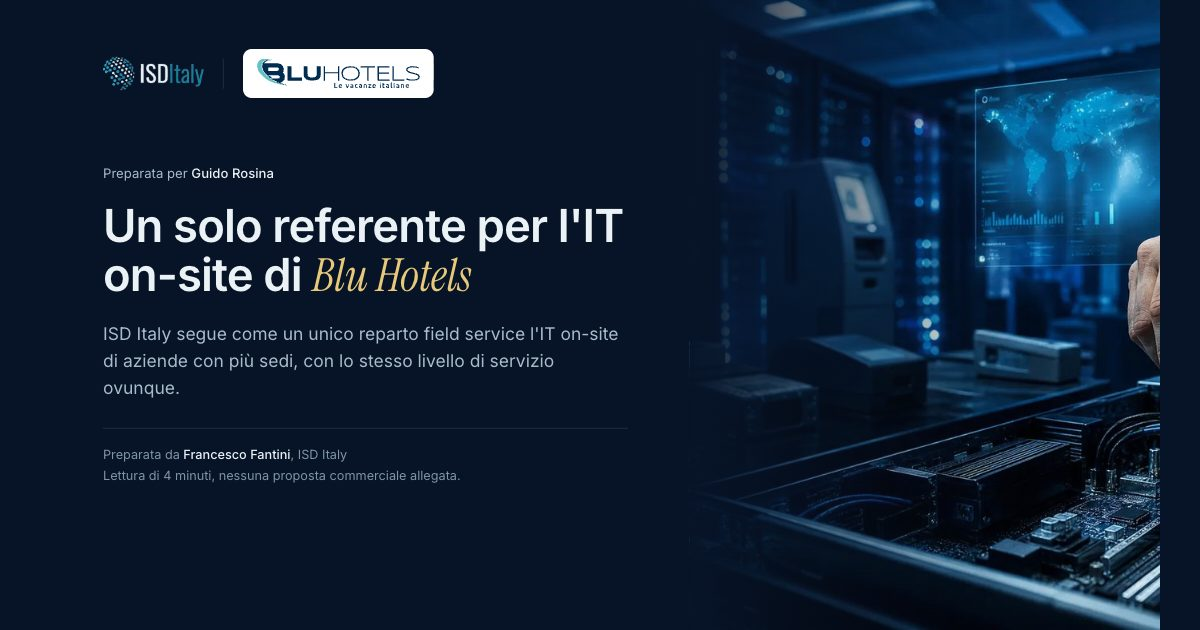
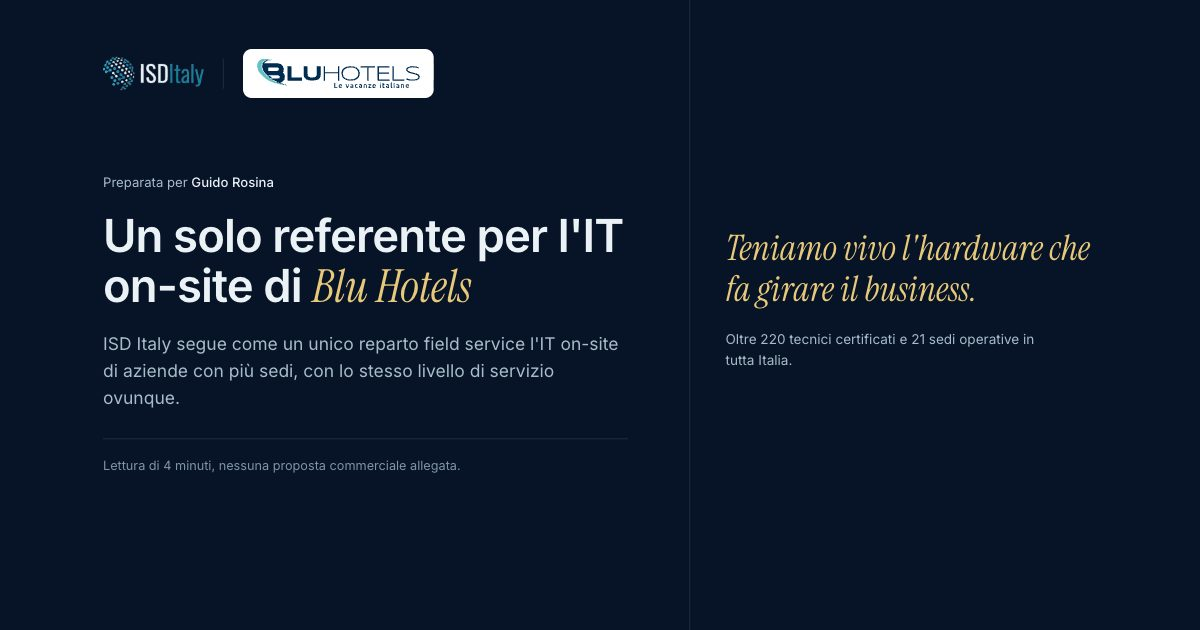
isd v2: no site screenshot, no source line, no AI-looking images, no sender line

diff --git a/isd/blu-hotels-v2/index.html b/isd/blu-hotels-v2/index.html
@@ -42,8 +42,9 @@ p{line-height:1.55}
 .cover .sub{font-size:20px;color:var(--dim);margin-top:22px;max-width:600px}
 .cover .meta{margin-top:30px;font-size:14.5px;color:var(--faint);line-height:1.6;border-top:1px solid var(--line);padding-top:18px;max-width:600px}
 .cover .meta b{color:var(--paper);font-weight:500}
-.cover .r{flex:1;position:relative;background:var(--ink2) url(../assets/isd-tecnico.jpg) 38% 50%/cover no-repeat}
-.cover .r:before{content:"";position:absolute;inset:0;background:linear-gradient(90deg,var(--ink) 0%,rgba(7,20,40,.55) 28%,rgba(7,20,40,.05) 70%)}
+.cover .r{flex:1;display:flex;flex-direction:column;justify-content:center;padding:56px 72px 92px 40px;border-left:1px solid var(--line)}
+.cover .r p{font-family:"Instrument Serif",Georgia,serif;font-style:italic;font-size:40px;line-height:1.18;color:var(--goldl)}
+.cover .r span{display:block;margin-top:22px;font-size:15.5px;line-height:1.55;color:var(--dim);max-width:380px}
 .saw{padding:0;flex-direction:row}
 .saw .l{flex:0 0 50%;padding:56px 40px 88px 72px;display:flex;flex-direction:column;justify-content:center;min-width:0}
 .saw .fact{font-size:21px;line-height:1.5;margin-top:24px;color:var(--paper)}
@@ -51,20 +52,21 @@ p{line-height:1.55}
 .saw .idea{margin-top:26px;font-family:"Instrument Serif",Georgia,serif;font-style:italic;font-size:25px;line-height:1.3;color:var(--goldl)}
 .saw .src{margin-top:16px;font-family:"IBM Plex Mono",monospace;font-size:12px;color:var(--faint)}
 .saw .r{flex:1;display:flex;align-items:center;justify-content:center;padding:56px 64px 88px 24px;min-width:0}
+.biglogo{width:100%;max-width:440px;aspect-ratio:4/3;background:#fff;border-radius:16px;display:flex;align-items:center;justify-content:center;padding:40px}
+.biglogo img{display:block;max-width:100%;max-height:120px;width:auto;height:auto}
+.biglogo .pname{color:var(--ink);font-size:34px;text-align:center}
 .bro{width:100%;border-radius:12px;overflow:hidden;background:#fff;box-shadow:0 30px 70px rgba(0,0,0,.45),0 0 0 1px rgba(255,255,255,.06)}
 .bro .bar{height:30px;background:#e9edf1;display:flex;align-items:center;gap:7px;padding:0 12px}
 .bro .bar i{width:10px;height:10px;border-radius:50%;background:#c8d0d8}
 .bro .bar span{margin-left:10px;font-family:"IBM Plex Mono",monospace;font-size:11.5px;color:#5b6b78}
 .bro img{display:block;width:100%;height:auto}
 .help{padding:0;flex-direction:row}
-.help .l{flex:0 0 38%;position:relative;background:var(--ink2) url(../assets/isd-servicedesk.jpg) 55% 50%/cover no-repeat}
-.help .l:after{content:"";position:absolute;inset:0;background:linear-gradient(270deg,var(--ink) 0%,rgba(7,20,40,.2) 45%,rgba(7,20,40,0) 100%)}
-.help .r{flex:1;padding:56px 72px 88px 48px;display:flex;flex-direction:column;justify-content:center;min-width:0}
-.pil{margin-top:26px;display:grid;grid-template-columns:1fr 1fr;gap:0 44px}
+.help .r{flex:1;padding:56px 72px 88px 72px;display:flex;flex-direction:column;justify-content:center;min-width:0}
+.pil{margin-top:34px;display:grid;grid-template-columns:repeat(4,1fr);gap:0 36px}
 .pil div{padding:18px 0;border-top:1px solid var(--line)}
-.pil b{display:block;font-size:19px;font-weight:600;color:var(--paper)}
-.pil span{display:block;font-size:15.5px;line-height:1.5;color:var(--dim);margin-top:6px}
-.help .note{margin-top:24px;font-size:16px;color:var(--dim)}
+.pil div{padding:22px 0}.pil b{display:block;font-size:21px;font-weight:600;color:var(--paper)}
+.pil span{display:block;font-size:16.5px;line-height:1.5;color:var(--dim);margin-top:6px}
+.help .note{margin-top:34px;font-size:18px;color:var(--dim)}
 .help .note b{color:var(--cyan);font-weight:500}
 .case{justify-content:center}
 .case h2{max-width:900px}
@@ -101,15 +103,14 @@ html.phone .pc{font-size:14px;color:var(--faint)}html.phone .pc b{color:var(--pa
 html.phone h1{font-size:30px}html.phone h2{font-size:25px}
 html.phone .cover,html.phone .saw,html.phone .help,html.phone .talk{flex-direction:column}
 html.phone .cover .l{flex:1;padding:22px 20px 14px;min-height:0}
-html.phone .cover .r{flex:0 0 30%}
-html.phone .cover .r:before{background:linear-gradient(180deg,var(--ink) 0%,rgba(7,20,40,.1) 55%)}
+html.phone .cover .r{flex:0 0 auto;border-left:0;border-top:1px solid var(--line);padding:14px 20px 16px}html.phone .cover .r p{font-size:21px}html.phone .cover .r span{font-size:12.5px;margin-top:8px}
 html.phone .cover h1{margin-top:16px}html.phone .cover .sub{font-size:15px;margin-top:12px}
 html.phone .cover .meta{font-size:12.5px;margin-top:14px;padding-top:10px}
 html.phone .logos{gap:12px}html.phone .logos .isd{height:26px}html.phone .logos i{height:24px}html.phone .plogo{height:40px;padding:7px 10px}html.phone .plogo img{max-height:24px;max-width:130px}html.phone .pname{font-size:16px}
 html.phone .saw .l{flex:0 0 auto;padding:22px 20px 8px}html.phone .saw .fact{font-size:15px;margin-top:12px}html.phone .saw .ctx{font-size:13.5px;margin-top:8px}html.phone .saw .idea{font-size:18px;margin-top:10px}html.phone .saw .src{display:none}
-html.phone .saw .r{flex:1;padding:6px 20px 14px;min-height:0;align-items:flex-start}html.phone .bro .bar{height:22px}html.phone .bro .bar span{font-size:10px}
-html.phone .help .l{flex:0 0 22%}html.phone .help .l:after{background:linear-gradient(0deg,var(--ink) 0%,rgba(7,20,40,0) 70%)}
-html.phone .help .r{flex:1;padding:12px 20px 14px;justify-content:flex-start;min-height:0}html.phone .pil{grid-template-columns:1fr;margin-top:8px}html.phone .pil div{padding:8px 0}html.phone .pil b{font-size:15px}html.phone .pil span{font-size:12.6px;margin-top:2px;line-height:1.38}html.phone .help .note{font-size:12.6px;margin-top:8px}
+html.phone .saw .r{flex:1;padding:6px 20px 14px;min-height:0;align-items:flex-start}html.phone .biglogo{max-width:none;aspect-ratio:auto;height:100%;max-height:220px;padding:24px}html.phone .biglogo img{max-height:70px}html.phone .bro .bar{height:22px}html.phone .bro .bar span{font-size:10px}
+
+html.phone .help .r{flex:1;padding:22px 20px 14px;justify-content:flex-start;min-height:0}html.phone .pil{grid-template-columns:1fr;margin-top:10px}html.phone .pil div{padding:9px 0}html.phone .pil b{font-size:15px}html.phone .pil span{font-size:12.6px;margin-top:2px;line-height:1.38}html.phone .help .note{font-size:12.6px;margin-top:8px}
 html.phone .case .q{grid-template-columns:1fr;gap:14px;margin-top:18px}html.phone .case .big{font-size:48px}html.phone .case .big small{font-size:12.5px;margin-top:6px}html.phone .case .txt{font-size:15px}html.phone .case ul{margin-top:18px;gap:6px}html.phone .case li{font-size:12px;padding:5px 10px}
 html.phone .talk .l{flex:0 0 auto;padding:22px 20px 10px}html.phone .talk .alt{font-size:14.5px;margin-top:10px}html.phone .talk .site{display:none}
 html.phone .talk .r{flex:1;padding:6px 20px 14px;min-height:0;align-items:stretch;flex-direction:column}html.phone .cta{padding:22px 20px}html.phone .cta b{font-size:20px}html.phone .cta span{font-size:14px}html.phone .cta .btn{margin-top:14px}
@@ -127,10 +128,10 @@ html.phone .talk .r{flex:1;padding:6px 20px 14px;min-height:0;align-items:stretc
       <p class="kick">Preparata per <b>Guido Rosina</b></p>
       <h1>Un solo referente per l'IT on-site di <em>Blu Hotels</em></h1>
       <p class="sub">ISD Italy segue come un unico reparto field service l'IT on-site di aziende con più sedi, con lo stesso livello di servizio ovunque.</p>
-      <p class="meta">Preparata da <b>Francesco Fantini</b>, ISD Italy<br>Lettura di 4 minuti, nessuna proposta commerciale allegata.</p>
+      <p class="meta">Lettura di 4 minuti, nessuna proposta commerciale allegata.</p>
     </div>
   </div>
-  <div class="r" role="img" aria-label="Un tecnico ISD Italy al lavoro su un apparato"></div>
+  <div class="r"><p>Teniamo vivo l'hardware che fa girare il business.</p><span>Oltre 220 tecnici certificati e 21 sedi operative in tutta Italia.</span></div>
 </div></section>
 
 <section data-i="2" aria-label="Cosa abbiamo visto in Blu Hotels"><div class="s saw">
@@ -139,13 +140,11 @@ html.phone .talk .r{flex:1;padding:6px 20px 14px;min-height:0;align-items:stretc
     <p class="fact">Blu Hotels è da oltre trent'anni tra i protagonisti dell'ospitalità italiana, con oltre 30 hotel 4 e 4 stelle superior nelle destinazioni più rinomate d'Italia.</p>
     <p class="ctx">Con più sedi sul territorio, di solito l'assistenza IT passa da più manutentori locali, con standard e tempi diversi, e ogni intervento va coordinato a parte.</p>
     <p class="idea">Un unico reparto field service nazionale certificato, al posto di tanti manutentori locali.</p>
-    <p class="src">fonte bluhotels.it</p>
   </div>
-  <div class="r"><div class="bro"><div class="bar"><i></i><i></i><i></i><span>bluhotels.it</span></div><img src="../assets/leads/blu-hotels/site.jpg" alt="Il sito di Blu Hotels"></div></div>
+  <div class="r"><div class="biglogo"><img src="../assets/leads/blu-hotels/logo.svg" alt="Blu Hotels"></div></div>
 </div></section>
 
 <section data-i="3" aria-label="Come potremmo aiutare"><div class="s help">
-  <div class="l" role="img" aria-label="Il service desk di ISD Italy"></div>
   <div class="r">
     <h2>Come potremmo <em>aiutare</em></h2>
     <div class="pil">
@@ -154,7 +153,7 @@ html.phone .talk .r{flex:1;padding:6px 20px 14px;min-height:0;align-items:stretc
       <div><b>Il ciclo di vita</b><span>Staging, installazione, ricambi, refresh e dismissione certificata.</span></div>
       <div><b>La presenza</b><span>Tecnici ISD Italy nella vostra struttura, ogni giorno.</span></div>
     </div>
-    <p class="note">Oltre 220 tecnici certificati e 21 sedi, con <b>un solo referente</b> e lo stesso livello di servizio su tutte le sedi.</p>
+    <p class="note">Su ATM, POS, server, reti e postazioni di qualunque produttore, con <b>un solo referente</b> e lo stesso livello di servizio su tutte le sedi.</p>
   </div>
 </div></section>
 

diff --git a/isd/_src/template_v2.html b/isd/_src/template_v2.html
@@ -42,8 +42,9 @@ p{line-height:1.55}
 .cover .sub{font-size:20px;color:var(--dim);margin-top:22px;max-width:600px}
 .cover .meta{margin-top:30px;font-size:14.5px;color:var(--faint);line-height:1.6;border-top:1px solid var(--line);padding-top:18px;max-width:600px}
 .cover .meta b{color:var(--paper);font-weight:500}
-.cover .r{flex:1;position:relative;background:var(--ink2) url(../assets/isd-tecnico.jpg) 38% 50%/cover no-repeat}
-.cover .r:before{content:"";position:absolute;inset:0;background:linear-gradient(90deg,var(--ink) 0%,rgba(7,20,40,.55) 28%,rgba(7,20,40,.05) 70%)}
+.cover .r{flex:1;display:flex;flex-direction:column;justify-content:center;padding:56px 72px 92px 40px;border-left:1px solid var(--line)}
+.cover .r p{font-family:"Instrument Serif",Georgia,serif;font-style:italic;font-size:40px;line-height:1.18;color:var(--goldl)}
+.cover .r span{display:block;margin-top:22px;font-size:15.5px;line-height:1.55;color:var(--dim);max-width:380px}
 .saw{padding:0;flex-direction:row}
 .saw .l{flex:0 0 50%;padding:56px 40px 88px 72px;display:flex;flex-direction:column;justify-content:center;min-width:0}
 .saw .fact{font-size:21px;line-height:1.5;margin-top:24px;color:var(--paper)}
@@ -51,20 +52,21 @@ p{line-height:1.55}
 .saw .idea{margin-top:26px;font-family:"Instrument Serif",Georgia,serif;font-style:italic;font-size:25px;line-height:1.3;color:var(--goldl)}
 .saw .src{margin-top:16px;font-family:"IBM Plex Mono",monospace;font-size:12px;color:var(--faint)}
 .saw .r{flex:1;display:flex;align-items:center;justify-content:center;padding:56px 64px 88px 24px;min-width:0}
+.biglogo{width:100%;max-width:440px;aspect-ratio:4/3;background:#fff;border-radius:16px;display:flex;align-items:center;justify-content:center;padding:40px}
+.biglogo img{display:block;max-width:100%;max-height:120px;width:auto;height:auto}
+.biglogo .pname{color:var(--ink);font-size:34px;text-align:center}
 .bro{width:100%;border-radius:12px;overflow:hidden;background:#fff;box-shadow:0 30px 70px rgba(0,0,0,.45),0 0 0 1px rgba(255,255,255,.06)}
 .bro .bar{height:30px;background:#e9edf1;display:flex;align-items:center;gap:7px;padding:0 12px}
 .bro .bar i{width:10px;height:10px;border-radius:50%;background:#c8d0d8}
 .bro .bar span{margin-left:10px;font-family:"IBM Plex Mono",monospace;font-size:11.5px;color:#5b6b78}
 .bro img{display:block;width:100%;height:auto}
 .help{padding:0;flex-direction:row}
-.help .l{flex:0 0 38%;position:relative;background:var(--ink2) url(../assets/isd-servicedesk.jpg) 55% 50%/cover no-repeat}
-.help .l:after{content:"";position:absolute;inset:0;background:linear-gradient(270deg,var(--ink) 0%,rgba(7,20,40,.2) 45%,rgba(7,20,40,0) 100%)}
-.help .r{flex:1;padding:56px 72px 88px 48px;display:flex;flex-direction:column;justify-content:center;min-width:0}
-.pil{margin-top:26px;display:grid;grid-template-columns:1fr 1fr;gap:0 44px}
+.help .r{flex:1;padding:56px 72px 88px 72px;display:flex;flex-direction:column;justify-content:center;min-width:0}
+.pil{margin-top:34px;display:grid;grid-template-columns:repeat(4,1fr);gap:0 36px}
 .pil div{padding:18px 0;border-top:1px solid var(--line)}
-.pil b{display:block;font-size:19px;font-weight:600;color:var(--paper)}
-.pil span{display:block;font-size:15.5px;line-height:1.5;color:var(--dim);margin-top:6px}
-.help .note{margin-top:24px;font-size:16px;color:var(--dim)}
+.pil div{padding:22px 0}.pil b{display:block;font-size:21px;font-weight:600;color:var(--paper)}
+.pil span{display:block;font-size:16.5px;line-height:1.5;color:var(--dim);margin-top:6px}
+.help .note{margin-top:34px;font-size:18px;color:var(--dim)}
 .help .note b{color:var(--cyan);font-weight:500}
 .case{justify-content:center}
 .case h2{max-width:900px}
@@ -101,15 +103,14 @@ html.phone .pc{font-size:14px;color:var(--faint)}html.phone .pc b{color:var(--pa
 html.phone h1{font-size:30px}html.phone h2{font-size:25px}
 html.phone .cover,html.phone .saw,html.phone .help,html.phone .talk{flex-direction:column}
 html.phone .cover .l{flex:1;padding:22px 20px 14px;min-height:0}
-html.phone .cover .r{flex:0 0 30%}
-html.phone .cover .r:before{background:linear-gradient(180deg,var(--ink) 0%,rgba(7,20,40,.1) 55%)}
+html.phone .cover .r{flex:0 0 auto;border-left:0;border-top:1px solid var(--line);padding:14px 20px 16px}html.phone .cover .r p{font-size:21px}html.phone .cover .r span{font-size:12.5px;margin-top:8px}
 html.phone .cover h1{margin-top:16px}html.phone .cover .sub{font-size:15px;margin-top:12px}
 html.phone .cover .meta{font-size:12.5px;margin-top:14px;padding-top:10px}
 html.phone .logos{gap:12px}html.phone .logos .isd{height:26px}html.phone .logos i{height:24px}html.phone .plogo{height:40px;padding:7px 10px}html.phone .plogo img{max-height:24px;max-width:130px}html.phone .pname{font-size:16px}
 html.phone .saw .l{flex:0 0 auto;padding:22px 20px 8px}html.phone .saw .fact{font-size:15px;margin-top:12px}html.phone .saw .ctx{font-size:13.5px;margin-top:8px}html.phone .saw .idea{font-size:18px;margin-top:10px}html.phone .saw .src{display:none}
-html.phone .saw .r{flex:1;padding:6px 20px 14px;min-height:0;align-items:flex-start}html.phone .bro .bar{height:22px}html.phone .bro .bar span{font-size:10px}
-html.phone .help .l{flex:0 0 22%}html.phone .help .l:after{background:linear-gradient(0deg,var(--ink) 0%,rgba(7,20,40,0) 70%)}
-html.phone .help .r{flex:1;padding:12px 20px 14px;justify-content:flex-start;min-height:0}html.phone .pil{grid-template-columns:1fr;margin-top:8px}html.phone .pil div{padding:8px 0}html.phone .pil b{font-size:15px}html.phone .pil span{font-size:12.6px;margin-top:2px;line-height:1.38}html.phone .help .note{font-size:12.6px;margin-top:8px}
+html.phone .saw .r{flex:1;padding:6px 20px 14px;min-height:0;align-items:flex-start}html.phone .biglogo{max-width:none;aspect-ratio:auto;height:100%;max-height:220px;padding:24px}html.phone .biglogo img{max-height:70px}html.phone .bro .bar{height:22px}html.phone .bro .bar span{font-size:10px}
+
+html.phone .help .r{flex:1;padding:22px 20px 14px;justify-content:flex-start;min-height:0}html.phone .pil{grid-template-columns:1fr;margin-top:10px}html.phone .pil div{padding:9px 0}html.phone .pil b{font-size:15px}html.phone .pil span{font-size:12.6px;margin-top:2px;line-height:1.38}html.phone .help .note{font-size:12.6px;margin-top:8px}
 html.phone .case .q{grid-template-columns:1fr;gap:14px;margin-top:18px}html.phone .case .big{font-size:48px}html.phone .case .big small{font-size:12.5px;margin-top:6px}html.phone .case .txt{font-size:15px}html.phone .case ul{margin-top:18px;gap:6px}html.phone .case li{font-size:12px;padding:5px 10px}
 html.phone .talk .l{flex:0 0 auto;padding:22px 20px 10px}html.phone .talk .alt{font-size:14.5px;margin-top:10px}html.phone .talk .site{display:none}
 html.phone .talk .r{flex:1;padding:6px 20px 14px;min-height:0;align-items:stretch;flex-direction:column}html.phone .cta{padding:22px 20px}html.phone .cta b{font-size:20px}html.phone .cta span{font-size:14px}html.phone .cta .btn{margin-top:14px}
@@ -127,10 +128,10 @@ html.phone .talk .r{flex:1;padding:6px 20px 14px;min-height:0;align-items:stretc
       <p class="kick">Preparata per <b>{{FULLNAME}}</b></p>
       <h1>{{H1}}</h1>
       <p class="sub">{{GEN_SUB}}</p>
-      <p class="meta">Preparata da <b>{{SENDER}}</b>, ISD Italy<br>Lettura di 4 minuti, nessuna proposta commerciale allegata.</p>
+      <p class="meta">Lettura di 4 minuti, nessuna proposta commerciale allegata.</p>
     </div>
   </div>
-  <div class="r" role="img" aria-label="Un tecnico ISD Italy al lavoro su un apparato"></div>
+  <div class="r"><p>Teniamo vivo l'hardware che fa girare il business.</p><span>Oltre 220 tecnici certificati e 21 sedi operative in tutta Italia.</span></div>
 </div></section>
 
 <section data-i="2" aria-label="Cosa abbiamo visto in {{COMPANY_ATTR}}"><div class="s saw">
@@ -139,13 +140,11 @@ html.phone .talk .r{flex:1;padding:6px 20px 14px;min-height:0;align-items:stretc
     <p class="fact">{{NOTE}}</p>
     <p class="ctx">Con più sedi sul territorio, di solito l'assistenza IT passa da più manutentori locali, con standard e tempi diversi, e ogni intervento va coordinato a parte.</p>
     <p class="idea">{{IDEA}}</p>
-    <p class="src">fonte {{SRC}}</p>
   </div>
-  <div class="r"><div class="bro"><div class="bar"><i></i><i></i><i></i><span>{{SRC}}</span></div><img src="{{SHOT}}" alt="Il sito di {{COMPANY_ATTR}}"></div></div>
+  <div class="r"><div class="biglogo">{{PROSPECT_LOGO_BIG}}</div></div>
 </div></section>
 
 <section data-i="3" aria-label="Come potremmo aiutare"><div class="s help">
-  <div class="l" role="img" aria-label="Il service desk di ISD Italy"></div>
   <div class="r">
     <h2>Come potremmo <em>aiutare</em></h2>
     <div class="pil">
@@ -154,7 +153,7 @@ html.phone .talk .r{flex:1;padding:6px 20px 14px;min-height:0;align-items:stretc
       <div><b>Il ciclo di vita</b><span>Staging, installazione, ricambi, refresh e dismissione certificata.</span></div>
       <div><b>La presenza</b><span>Tecnici ISD Italy nella vostra struttura, ogni giorno.</span></div>
     </div>
-    <p class="note">Oltre 220 tecnici certificati e 21 sedi, con <b>un solo referente</b> e lo stesso livello di servizio su tutte le sedi.</p>
+    <p class="note">Su ATM, POS, server, reti e postazioni di qualunque produttore, con <b>un solo referente</b> e lo stesso livello di servizio su tutte le sedi.</p>
   </div>
 </div></section>
 

diff --git a/isd/_src/build.py b/isd/_src/build.py
@@ -36,6 +36,7 @@ def render(sp):
     cal = (f'<iframe id="calf" title="{A(CFG["cal_title"])}" data-src="{A(cal_url + ("&" if "?" in cal_url else "?") + "utm_source=deck&utm_medium=linkedin&utm_campaign=" + slug)}"></iframe>') if cal_url else CTA_LI
     lead_css = 'html:not(.phone) h1{font-size:44px}' if len(c) > 30 else 'html:not(.phone) h1{font-size:48px}' if len(c) > 20 else ''
     src = re.sub(r'^https?://(www\.)?', '', (sp.get('evidence') or [{'url': ''}])[0]['url']).split('/')[0]
+    plogo_big = f'<img src="{A(sp["logo"])}" alt="{A(c)}">' if sp.get('logo') else f'<span class="pname">{E(c)}</span>'
     if V2 and ('{{SHOT}}' in TPL) and not sp.get('shot'): raise ValueError(f'{slug}: v2 needs a screenshot of the prospect site')
     plogo = f'<span class="plogo"><img src="{A(sp["logo"])}" alt="{A(c)}"></span>' if sp.get('logo') else f'<span class="pname">{E(c)}</span>'
     h1v2 = CFG.get('h1_v2', '{c}').split('{c}')
@@ -47,7 +48,7 @@ def render(sp):
             'TALK_NOTE': CFG['talk_cal'] if cal_url else '', 'CASE_TAG': E(case['tag']), 'CASE_BIG': E(case['big']),
             'CASE_SMALL': E(case['small']), 'CASE_TEXT': E(case['text']),
             'PROSPECT_LOGO': plogo, 'FULLNAME': E(full or c), 'SENDER': E(CFG.get('sender', '')), 'NOTE': E(note), 'GEN_SUB': E(CFG.get('gen_sub_v2', CFG['gen_sub']).format(c=c)),
-            'SRC': E(src), 'SHOT': A(sp.get('shot', ''))}
+            'SRC': E(src), 'PROSPECT_LOGO_BIG': plogo_big, 'SHOT': A(sp.get('shot', ''))}
     if V2: vals['H1'] = E(h1v2[0]) + '<em>' + E(c) + '</em>' + E(h1v2[1] if len(h1v2) > 1 else '')
     page = re.sub(r'\{\{(\w+)\}\}', lambda m: vals[m.group(1)], TPL)
     v = visible(page)
